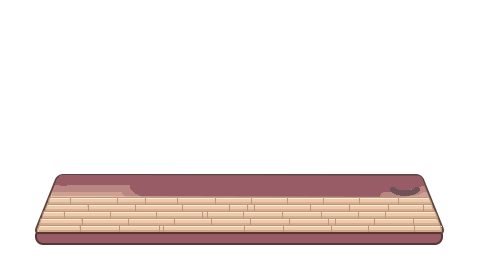
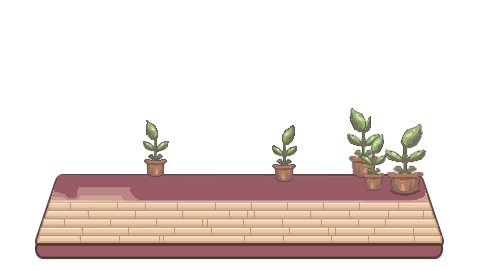
add src/ structure with main.py and menu.py, welcome screen assets (bg, 2 screens, day/night buttons), Golden Age font, updated bg_wall/countertop/floor sprites, and remove temporary test.py

Changed region(s): [[0.0625, 0.3852, 0.9375, 0.9778], [0.5625, 0.4444, 0.625, 0.6815], [0.2812, 0.4444, 0.3438, 0.6519]]

diff --git a/src/main.py b/src/main.py
@@ -1,0 +1,177 @@
+import pygame
+import sys
+from menu import load_menu_assets, draw_menu
+
+#Initialize pygame
+pygame.init()
+
+#Window settings
+GAME_WIDTH = 1920
+GAME_HEIGHT = 1080
+screen = pygame.display.set_mode((1280, 720), pygame.RESIZABLE)
+pygame.display.set_caption("Cat Café")
+
+#Surface at full resolution
+game_surface = pygame.Surface((GAME_WIDTH, GAME_HEIGHT))
+
+#FPS and clock
+FPS = 60
+clock = pygame.time.Clock()
+
+#HUD
+hud_font = pygame.font.Font("assets/fonts/Golden Age.ttf", 80)
+
+#Load menu assets
+menu_frames, button_day, button_night = load_menu_assets()
+
+#Menu animation
+menu_frame_index = 0
+menu_anim_timer = 0
+MENU_ANIM_SPEED = 1
+
+#Game state
+STATE_MENU = "menu"
+STATE_PLAYING = "playing"
+STATE_END = "end"
+game_state = STATE_MENU
+
+#Load background layers
+bg_wall = pygame.image.load("assets/bg_wall.png")
+bg_wall = pygame.transform.scale(bg_wall, (GAME_WIDTH, GAME_HEIGHT))
+
+floor_img = pygame.image.load("assets/floor.png")
+floor_img = pygame.transform.scale(floor_img, (GAME_WIDTH, GAME_HEIGHT))
+
+countertop_img = pygame.image.load("assets/countertop.png")
+countertop_img = pygame.transform.scale(countertop_img, (GAME_WIDTH, GAME_HEIGHT))
+
+lamps_img = pygame.image.load("assets/lamps.png")
+lamps_img = pygame.transform.scale(lamps_img, (GAME_WIDTH, GAME_HEIGHT))
+
+#Load player
+player_img = pygame.image.load("assets/player.png").convert_alpha()
+player_img = pygame.transform.scale(player_img, (310, 320))
+
+#Player position
+PLAYER_X = 630
+PLAYER_Y = 340
+
+#In-game clock
+in_game_hour = 9
+in_game_minute = 0
+time_elapsed = 0
+
+shift = "day"
+money = 0
+customers_served = 0
+
+#Main game loop
+running = True
+while running:
+    delta_time = clock.tick(FPS) / 1000.0
+
+    #Mouse hovering
+    raw_mouse = pygame.mouse.get_pos()
+    win_w, win_h = screen.get_size()
+    mouse_pos = (
+    int(raw_mouse[0] * GAME_WIDTH / win_w),
+    int(raw_mouse[1] * GAME_HEIGHT / win_h)
+    )
+
+    for event in pygame.event.get():
+        if event.type == pygame.QUIT:
+            running = False
+
+        if event.type == pygame.MOUSEBUTTONDOWN and event.button == 1:
+            if game_state == STATE_MENU:
+                button_day_rect = button_day.get_rect(center=(960, 620))
+                button_night_rect = button_night.get_rect(center=(960, 760))
+
+                if button_day_rect.collidepoint(mouse_pos):
+                    shift = "day"
+                    in_game_hour = 9
+                    in_game_minute = 0
+                    game_state = STATE_PLAYING
+
+                elif button_night_rect.collidepoint(mouse_pos):
+                    shift = "night"
+                    in_game_hour = 0
+                    in_game_minute = 0
+                    game_state = STATE_PLAYING
+
+    #===================== MENU =====================
+    if game_state == STATE_MENU:
+        menu_anim_timer += delta_time
+        if menu_anim_timer >= MENU_ANIM_SPEED:
+            menu_anim_timer = 0
+            menu_frame_index = (menu_frame_index + 1) % len(menu_frames)
+
+        draw_menu(game_surface, menu_frames, button_day, button_night, menu_frame_index, mouse_pos, hud_font)
+
+    #===================== PLAYING =====================
+    elif game_state == STATE_PLAYING:
+        game_surface.blit(bg_wall, (0, 0))
+        game_surface.blit(floor_img, (0, 0))
+        game_surface.blit(player_img, (PLAYER_X, PLAYER_Y))
+        game_surface.blit(countertop_img, (0, 0))
+        game_surface.blit(lamps_img, (0, 0))
+
+        #Display clock
+        time_text = f"{in_game_hour:02d}:{in_game_minute:02d}"
+        clock_shadow = hud_font.render(time_text, True, (0, 0, 0))
+        game_surface.blit(clock_shadow, (895, 30))
+        clock_surface = hud_font.render(time_text, True, (255, 255, 255))
+        game_surface.blit(clock_surface, (890, 25))
+
+        #Display money
+        money_text = f"${money:.2f}"
+        money_shadow = hud_font.render(money_text, True, (0, 0, 0))
+        game_surface.blit(money_shadow, (490, 30))
+        money_surface = hud_font.render(money_text, True, (189, 247, 173))
+        game_surface.blit(money_surface, (485, 25))
+
+        #Display customers served
+        customers_served_text = f"{customers_served}"
+        customers_served_shadow = hud_font.render(customers_served_text, True, (0, 0, 0))
+        game_surface.blit(customers_served_shadow, (1365, 30))
+        customers_surface = hud_font.render(customers_served_text, True, (240, 247, 173))
+        game_surface.blit(customers_surface, (1360, 25))
+
+        #Advance in-game time
+        time_elapsed += delta_time
+        if shift == "day":
+            interval = 18.75
+            end_hour = 17
+        else:
+            interval = 12.5
+            end_hour = 6
+
+        if time_elapsed >= interval:
+            time_elapsed = 0
+            in_game_minute += 15
+            if in_game_minute >= 60:
+                in_game_minute = 0
+                in_game_hour += 1
+            if in_game_hour >= end_hour:
+                game_state = STATE_END
+
+    #===================== END =====================
+    elif game_state == STATE_END:
+        game_surface.fill((40, 35, 50))
+        end_text = hud_font.render("Shift Over!", True, (255, 210, 80))
+        game_surface.blit(end_text, end_text.get_rect(center=(GAME_WIDTH // 2, 400)))
+        money_end = hud_font.render(f"Money earned: ${money:.2f}", True, (255, 255, 255))
+        game_surface.blit(money_end, money_end.get_rect(center=(GAME_WIDTH // 2, 550)))
+        customers_end = hud_font.render(f"Customers served: {customers_served}", True, (255, 255, 255))
+        game_surface.blit(customers_end, customers_end.get_rect(center=(GAME_WIDTH // 2, 680)))
+
+    #Scale to fill entire window
+    win_w, win_h = screen.get_size()
+    scaled_surface = pygame.transform.scale(game_surface, (win_w, win_h))
+    screen.blit(scaled_surface, (0, 0))
+
+    #Update display
+    pygame.display.update()
+
+pygame.quit()
+sys.exit()

diff --git a/src/menu.py b/src/menu.py
@@ -1,0 +1,44 @@
+import pygame
+def load_menu_assets():
+    #Load welcome background spritesheet
+    sheet = pygame.image.load("assets/welcome_screen/welcome_bg.png").convert_alpha()
+    sheet = pygame.transform.scale(sheet, (1920, 1080 * 2))
+
+    #Slice 2 frames
+    frame1 = sheet.subsurface(pygame.Rect(0,0,1920,1080))
+    frame2 = sheet.subsurface(pygame.Rect(0,1080,1920,1080))
+    frames = [frame1, frame2]
+
+    #Load buttons, sizes
+    button_day = pygame.image.load("assets/welcome_screen/button_day.png").convert_alpha()
+    button_day = pygame.transform.scale(button_day, (430, 140))
+
+    button_night = pygame.image.load("assets/welcome_screen/button_night.png").convert_alpha()
+    button_night = pygame.transform.scale(button_night, (430, 140))
+
+    return frames, button_day, button_night
+
+def draw_menu(game_surface, frames, button_day, button_night, frame_index, mouse_pos, hud_font):
+    #Draw current animation frame
+    game_surface.blit(frames[frame_index], (0,0))
+    button_font = pygame.font.Font("assets/fonts/Golden Age.ttf", 40)
+
+    #Button positions
+    button_day_rect = button_day.get_rect(center = (980, 680))
+    button_night_rect = button_night.get_rect(center = (980, 860))
+
+    #Hover effect
+    for button, button_rect in [(button_day, button_day_rect), (button_night, button_night_rect)]:
+        game_surface.blit(button, button_rect)
+        if button_rect.collidepoint(mouse_pos):
+            overlay = pygame.Surface((button_rect.width
+                                     , button_rect.height), pygame.SRCALPHA)
+            overlay.fill((0,0,0,60))
+            game_surface.blit(overlay,button_rect)
+
+    #Button texts
+    day_text = button_font.render("Day Shift", True, (60, 40, 20))
+    game_surface.blit(day_text, day_text.get_rect(center = (1000, 675)))
+
+    night_text = button_font.render("Night Shift", True, (255, 255, 255))
+    game_surface.blit(night_text, night_text.get_rect(center = (1000, 855)))